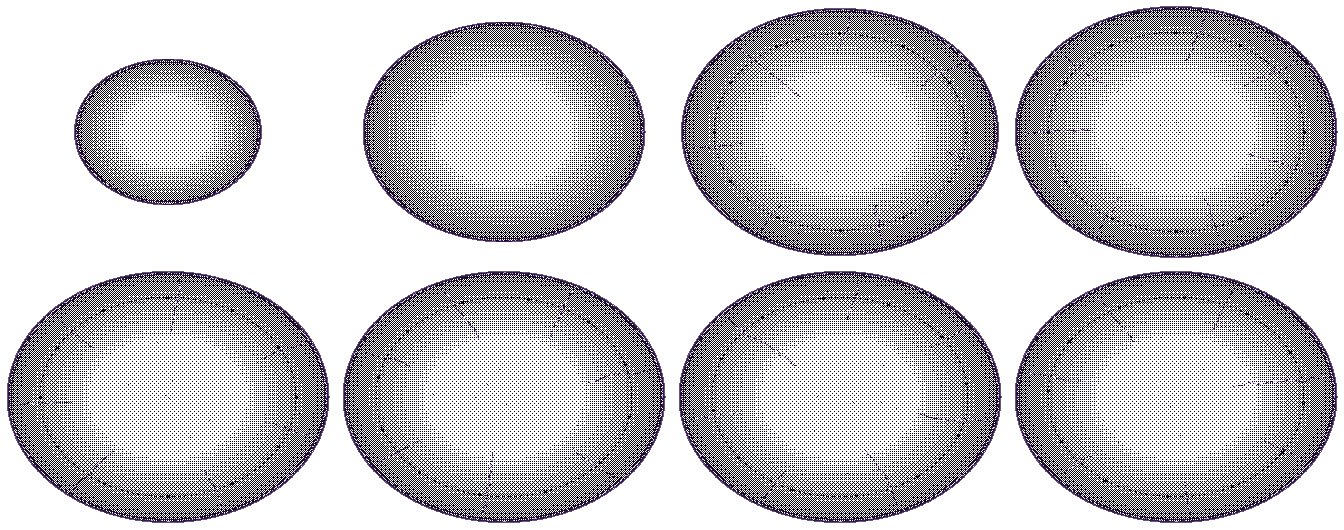
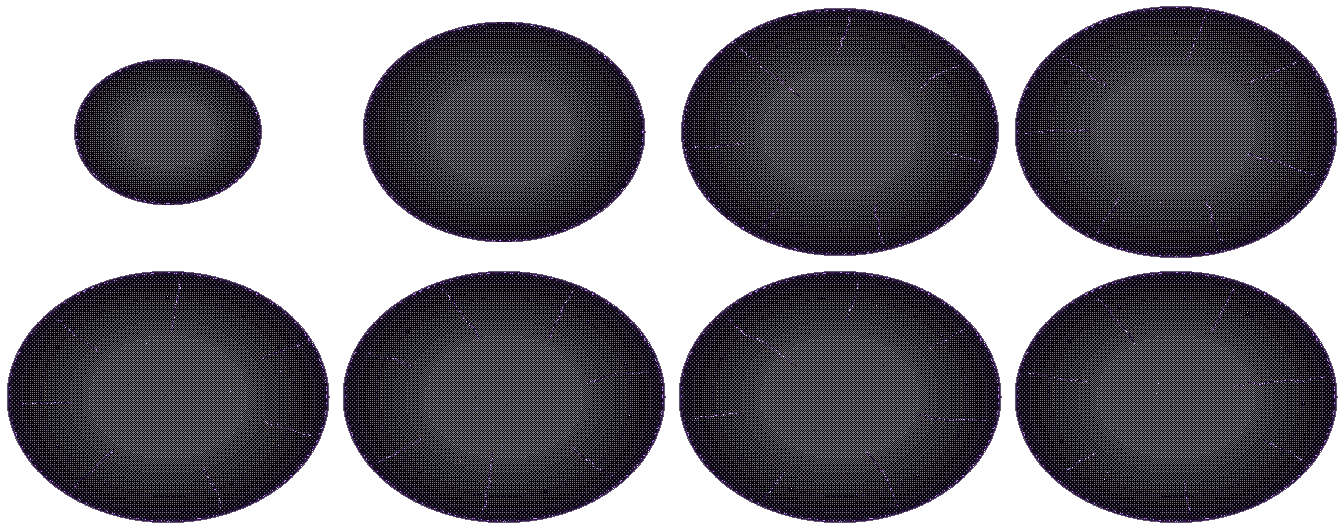
군주의 영역 바닥을 반투명 검정으로 채우고 그림자 무늬를 촘촘하게 한다
Claude-Session: https://claude.ai/code/session_01Q8g6pYCUxLmsDbMAsmRxC3

diff --git a/design/effects/necromancer/make.py b/design/effects/necromancer/make.py
@@ -498,14 +498,16 @@ def swap_cells(n=6):
     return out
 
 # ── 군주의 영역 — 땅의 어두운 원(r160, 게임이 2배로 r320). 0~3 퍼짐 · 4~7 유지(문양 고리가 돈다) ──
+DOMAIN_FILL = 0.55   # 군주의 영역 바닥 채움 진하기(0 투명 ~ 1 꽉 참)
 def domain_cells(R=160):
     w, h = R * 2 + 16, int(R * 2 * SQ) + 16; cx, cy = w // 2, h // 2
     out = []
     for i in range(8):
         c = Cv(w, h)
         r = R * (ez((i + 1) / 4) if i < 4 else 1)
-        c.band(cx, cy, r, r * SQ, .5, 1, N[1], dens=lambda d: .18 + .42 * (d - .5) / .5)          # 가장자리로 갈수록 짙은 그림자 연기
-        c.band(cx, cy, r, r * SQ, 0, .5, N[1], dens=.1)
+        c.disc(cx, cy, r, r * SQ, al(N[0], DOMAIN_FILL))                                     # 11월 20일 사용자 "장판 밀도가 부족해" — 바닥 전체를 반투명 검정으로 먼저 채운다
+        c.band(cx, cy, r, r * SQ, .5, 1, N[1], dens=lambda d: .5 + .4 * (d - .5) / .5)           # 가장자리로 갈수록 짙은 그림자 연기
+        c.band(cx, cy, r, r * SQ, 0, .5, N[1], dens=.45)
         c.band(cx, cy, r, r * SQ, .9, 1, GV[0], dens=.35)
         c.ring(cx, cy, r + 1, (r + 1) * SQ, al(GV[1], .7)); c.ring(cx, cy, r, r * SQ, GV[2]); c.ring(cx, cy, r - 1, (r - 1) * SQ, GV[3], 0, TAU, 4)
         c.ring(cx, cy, r - 3, (r - 3) * SQ, GV[1])
